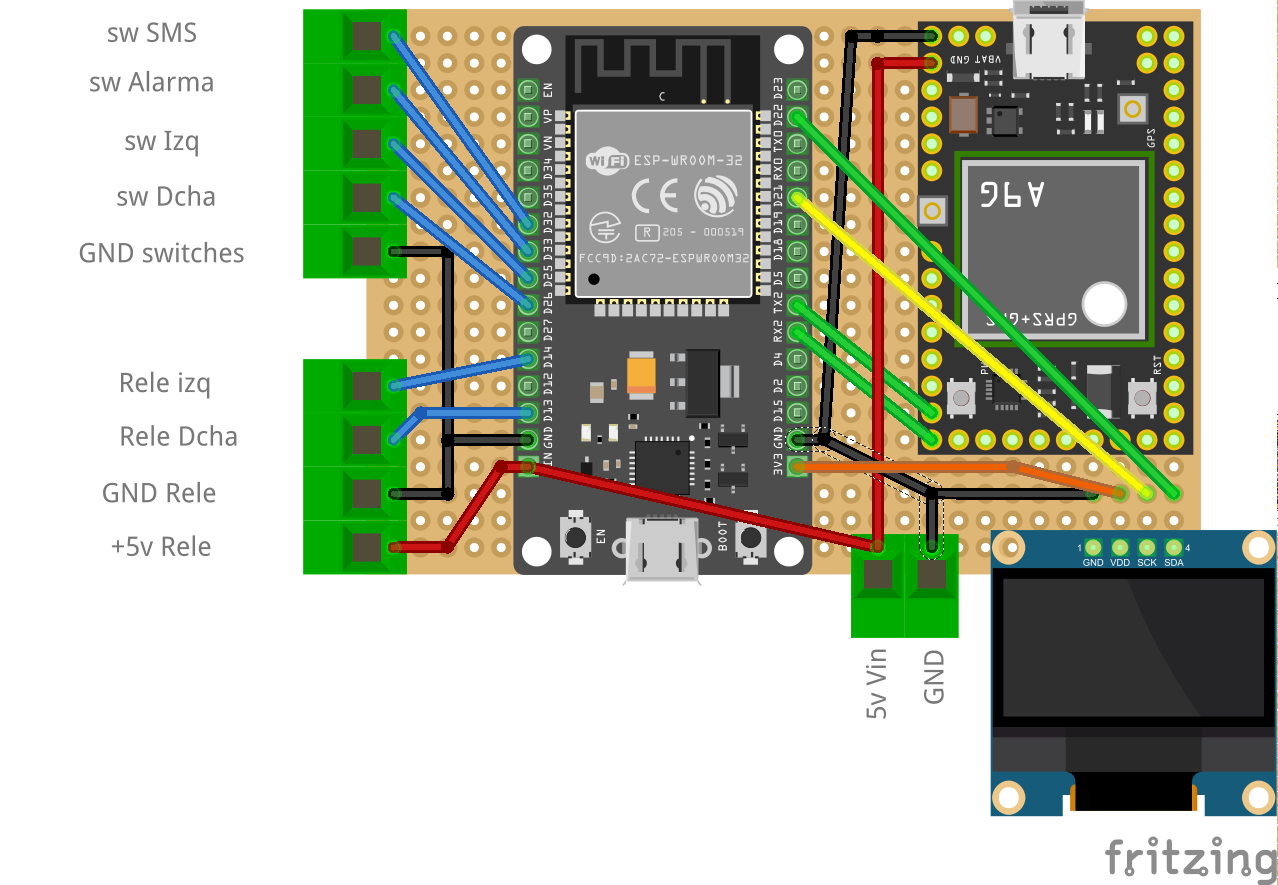
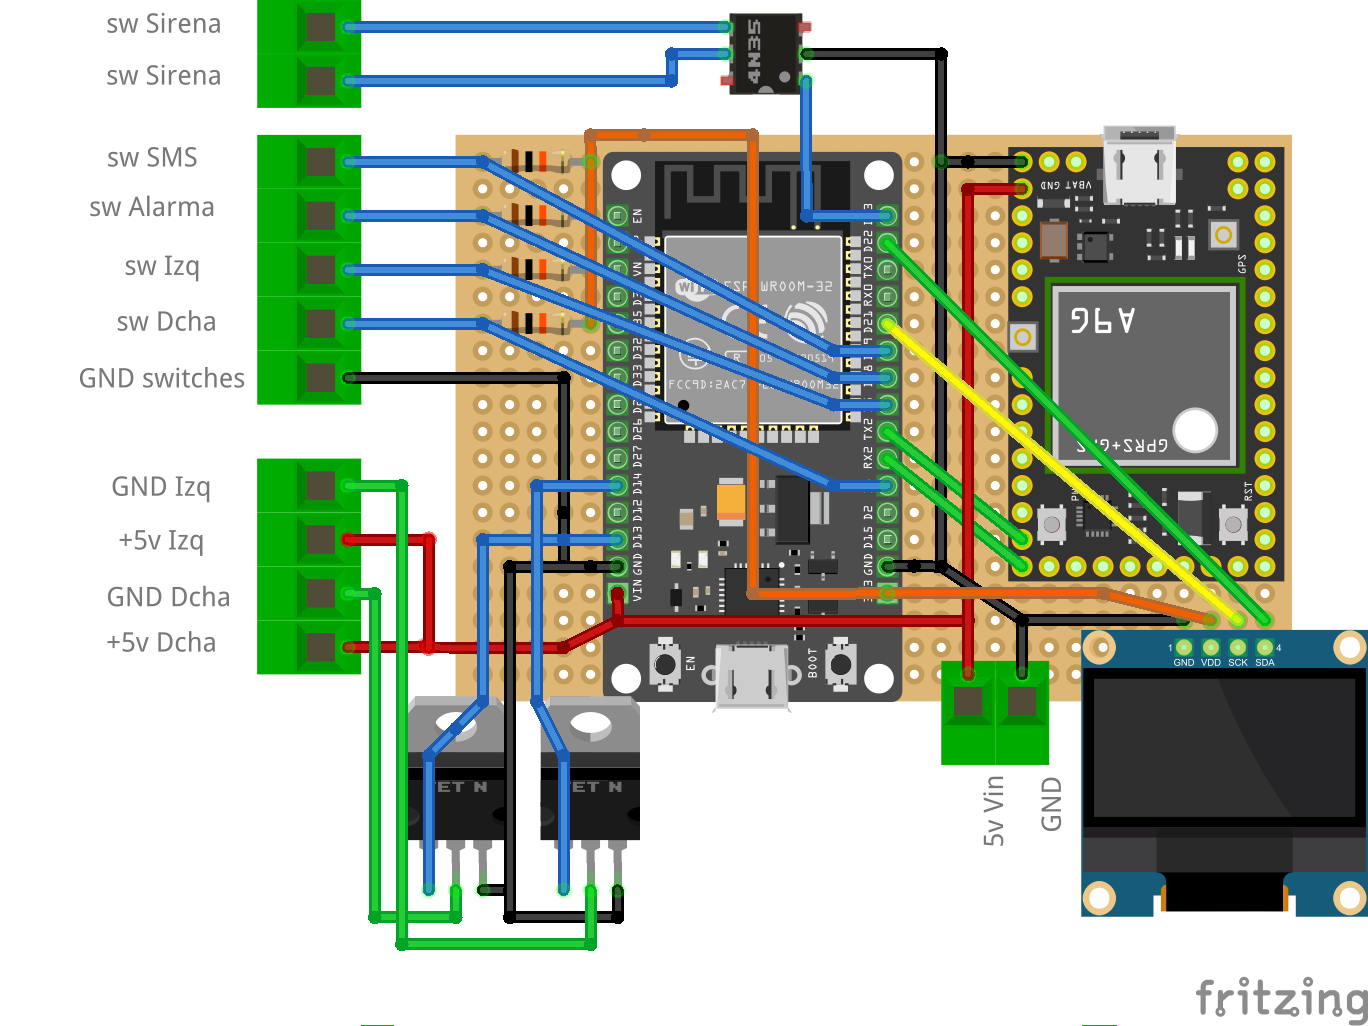
use mosfets Use mosfets instead of relays. Boot animation (by @ZombieGeek0) wait up to 60secs for A9G to boot. Disable traccar. Blinks animation on display.

diff --git a/esp32/main.py b/esp32/main.py
@@ -12,10 +12,11 @@ LIGHTS_RIGHT=1
 LIGHTS_BOTH=3
 lights_state=LIGHTS_OFF
 
-LEFT_PIN=25
-RIGHT_PIN=26
-WARNING_PIN=33
-SMS_PIN=32
+RIGHT_PIN=4
+LEFT_PIN=5
+WARNING_PIN=18
+SMS_PIN=19
+EMERGENCY_LIGHT=23
 
 left_button=Pin(LEFT_PIN, Pin.IN, Pin.PULL_UP)
 right_button=Pin(RIGHT_PIN, Pin.IN, Pin.PULL_UP)
@@ -24,10 +25,10 @@ sms_button=Pin(SMS_PIN, Pin.IN, Pin.PULL_UP)
 
 left_relay=Pin(14, Pin.OUT)
 right_relay=Pin(13, Pin.OUT)
-left_relay.on()
-right_relay.on()
+left_relay.off()
+right_relay.off()
 
-emergency_light = Pin(23, Pin.OUT)
+emergency_light = Pin(EMERGENCY_LIGHT, Pin.OUT)
 must_switch_emergency_light = False
 
 lights_lasttime = 0
@@ -80,16 +81,7 @@ def display_data():
     oled.text("{:02d}:{:02d}:{:02d}".format(a9g.gps.timestamp[0], a9g.gps.timestamp[1],int(a9g.gps.timestamp[2])),62,50)
     oled.show()
 
-def display_lights():
-    global lights_state
-    
-    if lights_state==LIGHTS_LEFT:
-        display_text("      <----")
-    elif lights_state==LIGHTS_RIGHT:
-        display_text("      ----->")
-    else:
-        display_text("       <-->")
-                     
+ 
 def display_text(text):
     global oled
     oled.fill(0)
@@ -114,14 +106,9 @@ def on_buttonpress(pin=None):
     global on_buttonpress_lasttime
     global must_switch_emergency_light
     
-    # Disable interrupts
-    irq_state = machine.disable_irq()
-
     now = time.ticks_ms()
     if (now < on_buttonpress_lasttime + 500):
         print("{} paso".format(pin))
-        # Enable interrupts
-        machine.enable_irq(irq_state)
         return
     
     on_buttonpress_lasttime = now
@@ -145,14 +132,11 @@ def on_buttonpress(pin=None):
     elif pin==warning_button:
         lights_state = LIGHTS_BOTH
         must_switch_emergency_light = True
-            
-    # Enable interrupts
-    machine.enable_irq(irq_state)        
 
 
 def lights_off():
-    left_relay.on()
-    right_relay.on()
+    left_relay.off()
+    right_relay.off()
 
 
 def lights_left():
@@ -164,10 +148,12 @@ def lights_left():
 
     lights_lasttime = now
 
-    if left_relay.value() == 1:
-        left_relay.off()
-    else:
+    if left_relay.value() == 0:
         left_relay.on()
+        display_text("     <-----")
+    else:
+        left_relay.off()
+        display_text("")
 
 
 def lights_right():
@@ -179,10 +165,12 @@ def lights_right():
 
     lights_lasttime = now
 
-    if right_relay.value() == 1:
-        right_relay.off()
-    else:
+    if right_relay.value() == 0:
         right_relay.on()
+        display_text("      ----->")
+    else:
+        right_relay.off()
+        display_text("")
     
 
 def lights_both():
@@ -194,28 +182,42 @@ def lights_both():
 
     lights_lasttime = now
 
-    if left_relay.value() == 1:
-        right_relay.off()
-        left_relay.off()
-    else:
+    if left_relay.value() == 0:
         right_relay.on()
         left_relay.on()
+        display_text("     <--   -->")
+    else:
+        right_relay.off()
+        left_relay.off()
+        display_text("")
 
 
 
 # Main proogram
 
-display_text("boot...")
-print("boot")
+def boot_animation():
+    fases = ['|', '/', '-', '|', '/', '-']
+    for fase in fases:
+        display_text(f'  {fase} Booting...')
+        time.sleep(0.5)
+
+for _ in range(2):
+    boot_animation()
+
+display_text("  [Booting...]")
+print("[+] Booting...")
 lights_off()
 
 
 # Wait for  A9G module to booot
-time.sleep(5)
-a9g.conn_init()
+boot_time = time.time()
+while (not a9g.reset()) and (time.time() < boot_time + 60):
+    display_text(f"reset a9g: {time.time()}")
+    
 a9g.gps.local_offset = 2
 a9g.gps_init()
 a9g.gps_periodic_update(1)
+a9g.conn_init()
 
 sms_button.irq(on_buttonpress, trigger=Pin.IRQ_FALLING)
 left_button.irq(on_buttonpress, trigger=Pin.IRQ_FALLING)
@@ -233,17 +235,18 @@ while True:
     now = time.time()
     
     a9g.update()
-    
+         
+        
     if now >= display_time:
+        display_time = now + 1
         if lights_state == LIGHTS_OFF:
             display_data()
-        else:
-            display_lights()
-        display_time = now + 1
-        
-    if now > traccar_time and a9g.gps_fixed() and a9g.is_connected():
-            send_location_traccar()
-            traccar_time = now + 10
+
+
+#    if now > traccar_time and a9g.gps_fixed() and a9g.is_connected():
+#            send_location_traccar()
+#            traccar_time = now + 10
+
 
     if must_send_sms:
         must_send_sms = False
@@ -251,7 +254,7 @@ while True:
     
     if must_switch_emergency_light:
         emergency_light.on()
-        time.sleep(2)
+        time.sleep(0.2)
         emergency_light.off()
         must_switch_emergency_light = False
 
